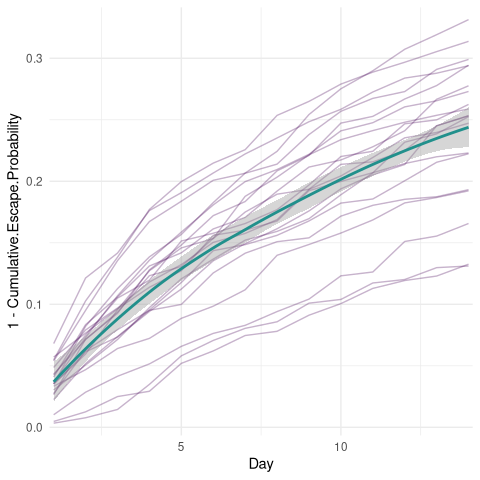
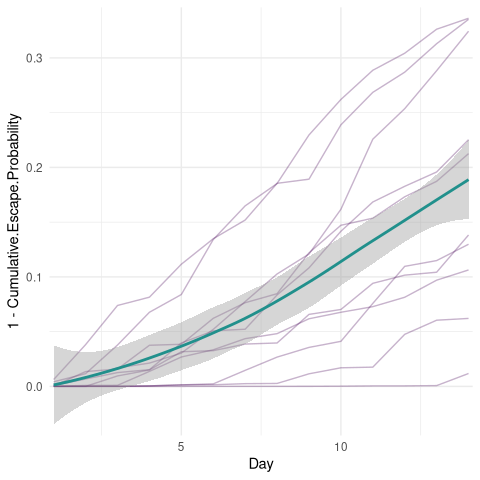
new readme changes

diff --git a/README.md b/README.md
@@ -35,14 +35,23 @@ devtools::install_github("mattecologist/trapgridR")
 ## Example
 
 ``` r
-library(trapgridR)
+library (trapgridR)
 #> Loading required package: rJava
+library (ggplot2)
+library (sp)
+library (raster)
+library (maptools)
+#> Checking rgeos availability: TRUE
 ```
 
-There is a simple function to make a regular grid across a given area
+At the most basic level, there is a simple function to make a regular
+grid across a given area
 
 ``` r
-make_regular_grid("my_grid")
+make_regular_grid("my_grid", #name of file to write out for TrapGrid
+  gridSize = c(364, 572), # upper right corner coordinates (lower left is always 0, 0)
+  gridSpace = 80, # spacing of traps in metres
+  lambda = 0.02) # lambda of the traps
 ```
 
 <img src="man/figures/README-unnamed-chunk-2-1.png" width="100%" />
@@ -91,7 +100,7 @@ make_regular_grid("my_grid")
     #> [40,]  560  320 0.02
 
 Or make a random grid of at least a minimum distance apart, that can
-include perimeter traps or not
+include additional perimeter traps or not
 
 ``` r
 make_random_grid(n.traps=5, gridname="my_grid", perim=TRUE)
@@ -100,27 +109,76 @@ make_random_grid(n.traps=5, gridname="my_grid", perim=TRUE)
 <img src="man/figures/README-unnamed-chunk-3-1.png" width="100%" />
 
     #>       [,1] [,2] [,3]
-    #>  [1,]   82    0 0.02
-    #>  [2,]  489 2000 0.02
-    #>  [3,] 2000 1604 0.02
-    #>  [4,]    0 1289 0.02
-    #>  [5,] 1283 1017 0.02
-    #>  [6,] 1647 1886 0.02
-    #>  [7,] 1164  466 0.02
-    #>  [8,]  514  159 0.02
-    #>  [9,] 1166 1567 0.02
+    #>  [1,] 1690    0 0.02
+    #>  [2,] 1438 2000 0.02
+    #>  [3,] 2000 1019 0.02
+    #>  [4,]    0 1432 0.02
+    #>  [5,]   38  550 0.02
+    #>  [6,]  676  713 0.02
+    #>  [7,] 1819 1847 0.02
+    #>  [8,] 1188 1447 0.02
+    #>  [9,] 1064  964 0.02
+
+## Simulating Orchards / Management areas
+
+Alternatively, you might have a polygon/shapefile of an orchard you want
+to explore different scenarios over. You can also build randomly shaped
+and sized polygons to investigate. We were interseted in orchard
+“blocks” so have used that term to describe them, but it can be any
+management area that is appropriate.
+
+``` r
+new.block <- make_random_block()  #specify the size of the block in metres squared
+
+new.traps <- make_random_traps(block=new.block, n.traps = 5, min.dist = 50) # add traps to the block - here just 4 random traps all at least 50 meters apart
+
+
+plot (new.block) # the traps object stores the new block polygon too
+points (new.traps[[1]], pch=20) # the traps are here as point
+```
+
+<img src="man/figures/README-unnamed-chunk-4-1.png" width="100%" />
+
+# Setting outbreak locations
+
+Its possible to take the block polygon and seed all the outbreaks either
+within or outside of the block
+
+``` r
+outbreaks <- make_block_outbreak(traps= new.traps[1], block = new.traps[[2]],
+                                 nOutbreaks = 10)
+#> [1] "Outbreak file outbreaks written"
+
+plot (outbreaks$buffer_region)
+points (outbreaks$outbreak_set)
+points (outbreaks$traps_sp, pch=20)
+```
+
+<img src="man/figures/README-unnamed-chunk-5-1.png" width="100%" />
+
+``` r
+make_block_grid(gridname = "orchard_traps",
+                traps = outbreaks$traps_sp,
+                lambda = 0.05)
+#> [1] "Trapping grid  orchard_traps written"
+```
+
+``` r
+model.temp <- trapgridR("orchard_traps", nDays=14, nFlies=50, D=10^3,
+                        outbreaks = "outbreaks")
+```
 
 Simulations can be setup in R and results stored as objects
 
 ``` r
-model1 <- trapgridR(filepath="my_grid", nDays = 14, nFlies = 100, nSim=20, D=10^5)
+model1 <- trapgridR(filepath="my_grid", nDays = 14, nFlies = 10, nSim=20, D=10^5)
 ```
 
 Simulation results can be plotted from the model objects.
 
 ``` r
 library (ggplot2)
-ggplot(model1$simRuns, aes(Day, 1-Cumulative.Escape.Probability))+
+ggplot(model.temp$simRuns, aes(Day, 1-Cumulative.Escape.Probability))+
   geom_line(aes(group=SimRun), colour=viridis::viridis(3)[1], alpha=0.3)+
   geom_smooth(method="loess", colour=viridis::viridis(3)[2])+
   theme_dark()+
@@ -139,37 +197,14 @@ Additionally, fly locations from the simulation can be plotted to
 examine movement patterns….
 
 ``` r
-ggplot (model1$flyLoc, aes(as.integer(X), as.integer(Y),  colour=as.integer(Simulation.Number)))+
+ggplot (model.temp$flyLoc, aes(as.integer(X), as.integer(Y),  colour=as.factor(Simulation.Number)))+
   geom_point()+
   facet_wrap(.~as.integer(Day))+
-  scale_colour_viridis_c()+
+  scale_colour_viridis_d()+
   theme_minimal()
 ```
 
-<img src="man/figures/README-unnamed-chunk-5-1.png" width="100%" />
-
-…..which is a bit messy, so using `{gganimate}` can make an animation:
-
-``` r
-library (gganimate)
-#> No renderer backend detected. gganimate will default to writing frames to separate files
-#> Consider installing:
-#> - the `gifski` package for gif output
-#> - the `av` package for video output
-#> and restarting the R session
-ggplot (model1$flyLoc[model1$flyLoc$Simulation.Number==1:4,], aes(as.integer(X), as.integer(Y),  colour=Simulation.Number))+
-  geom_point()+
-  transition_time(as.integer(Day)) +
-  scale_colour_viridis_d()+
-  theme_minimal()+
-  facet_wrap(~Simulation.Number, nrow = 2)
-#> Warning: No renderer available. Please install the gifski, av, or magick package
-#> to create animated output
-#> NULL
-```
-
-which isn’t really that useful, except to show each fly is being tracked
-through each simulation :)
+<img src="man/figures/README-unnamed-chunk-9-1.png" width="100%" />
 
 We’ve included functions so that actualy trap arrangements can be easily
 be used in R, and are implementing further changes to the model that
